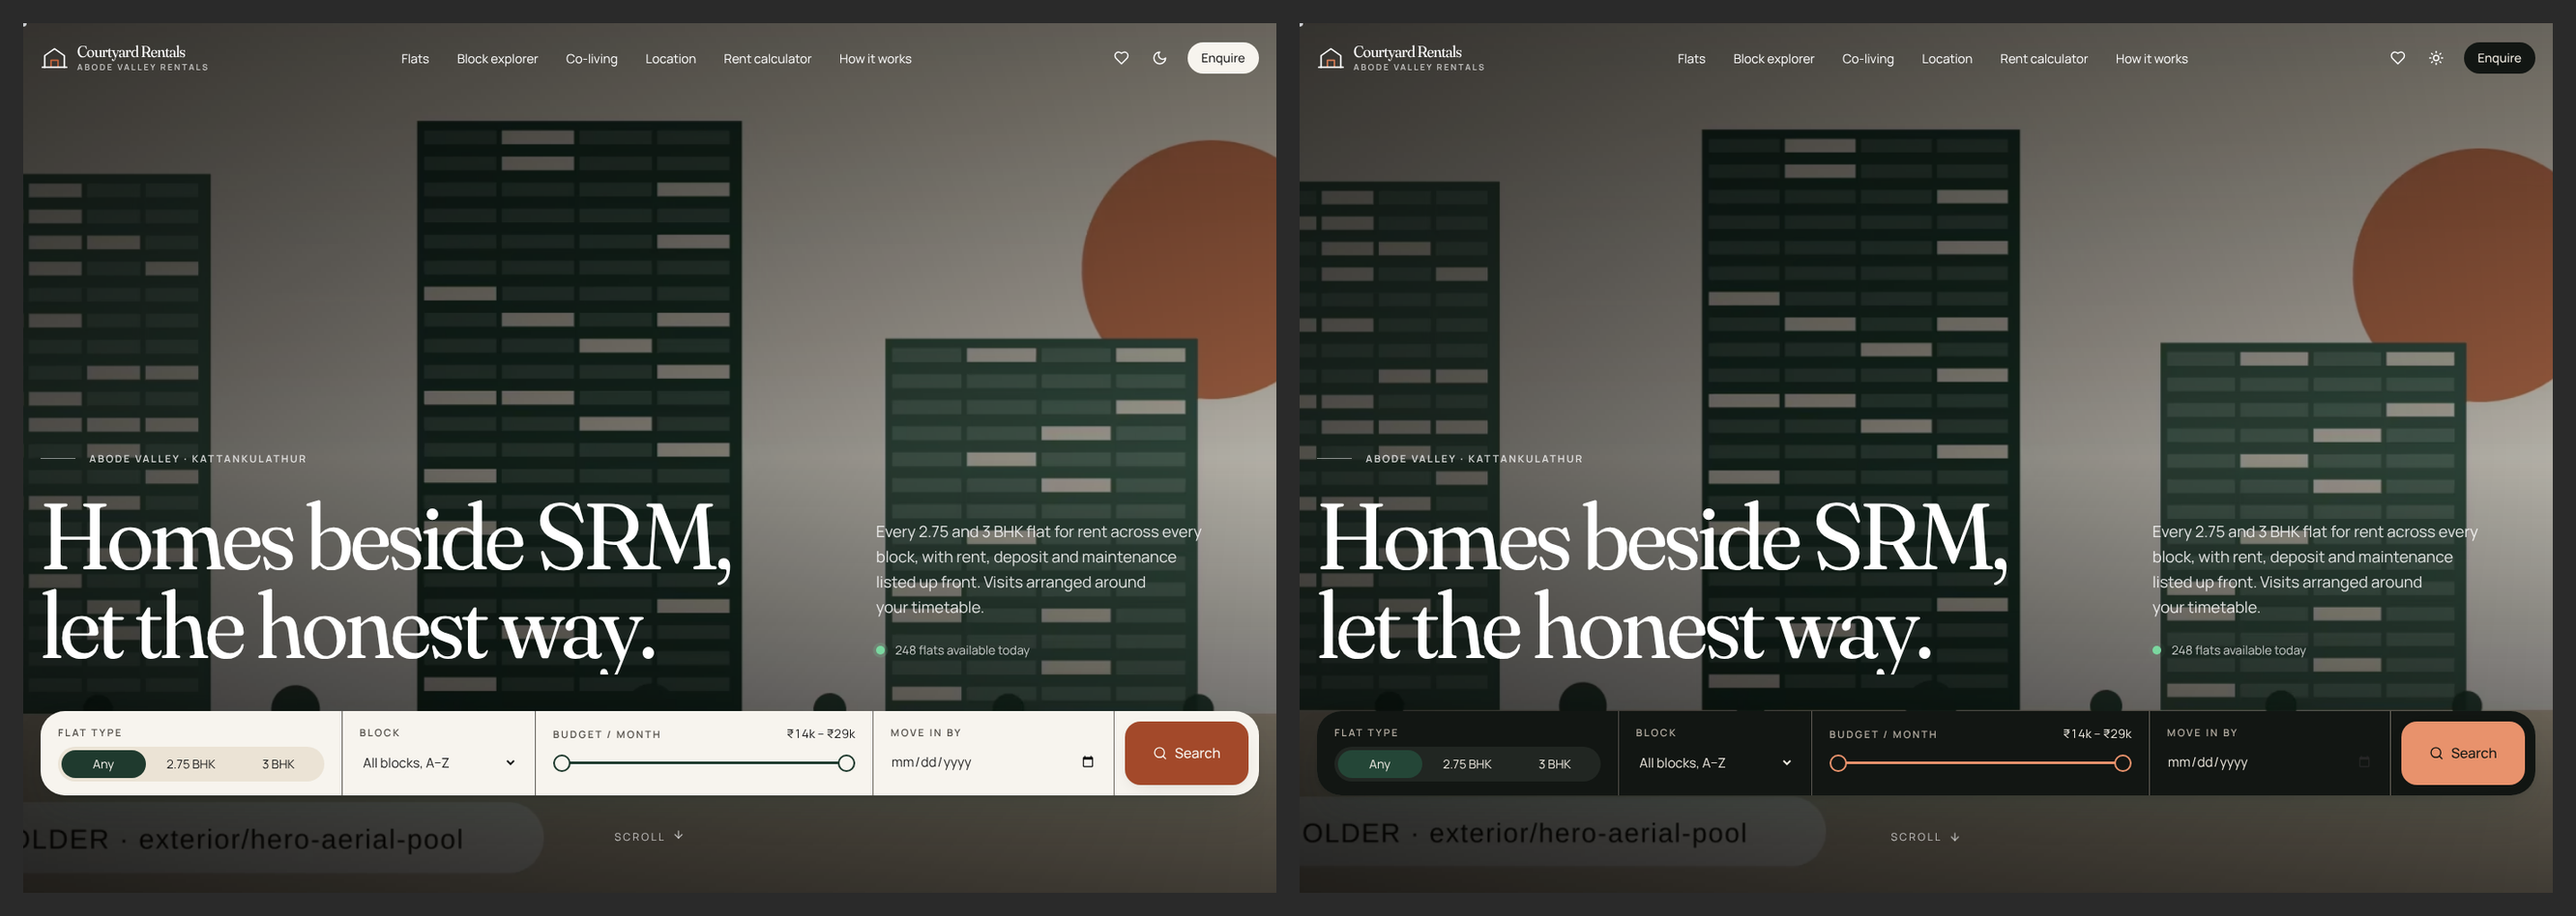
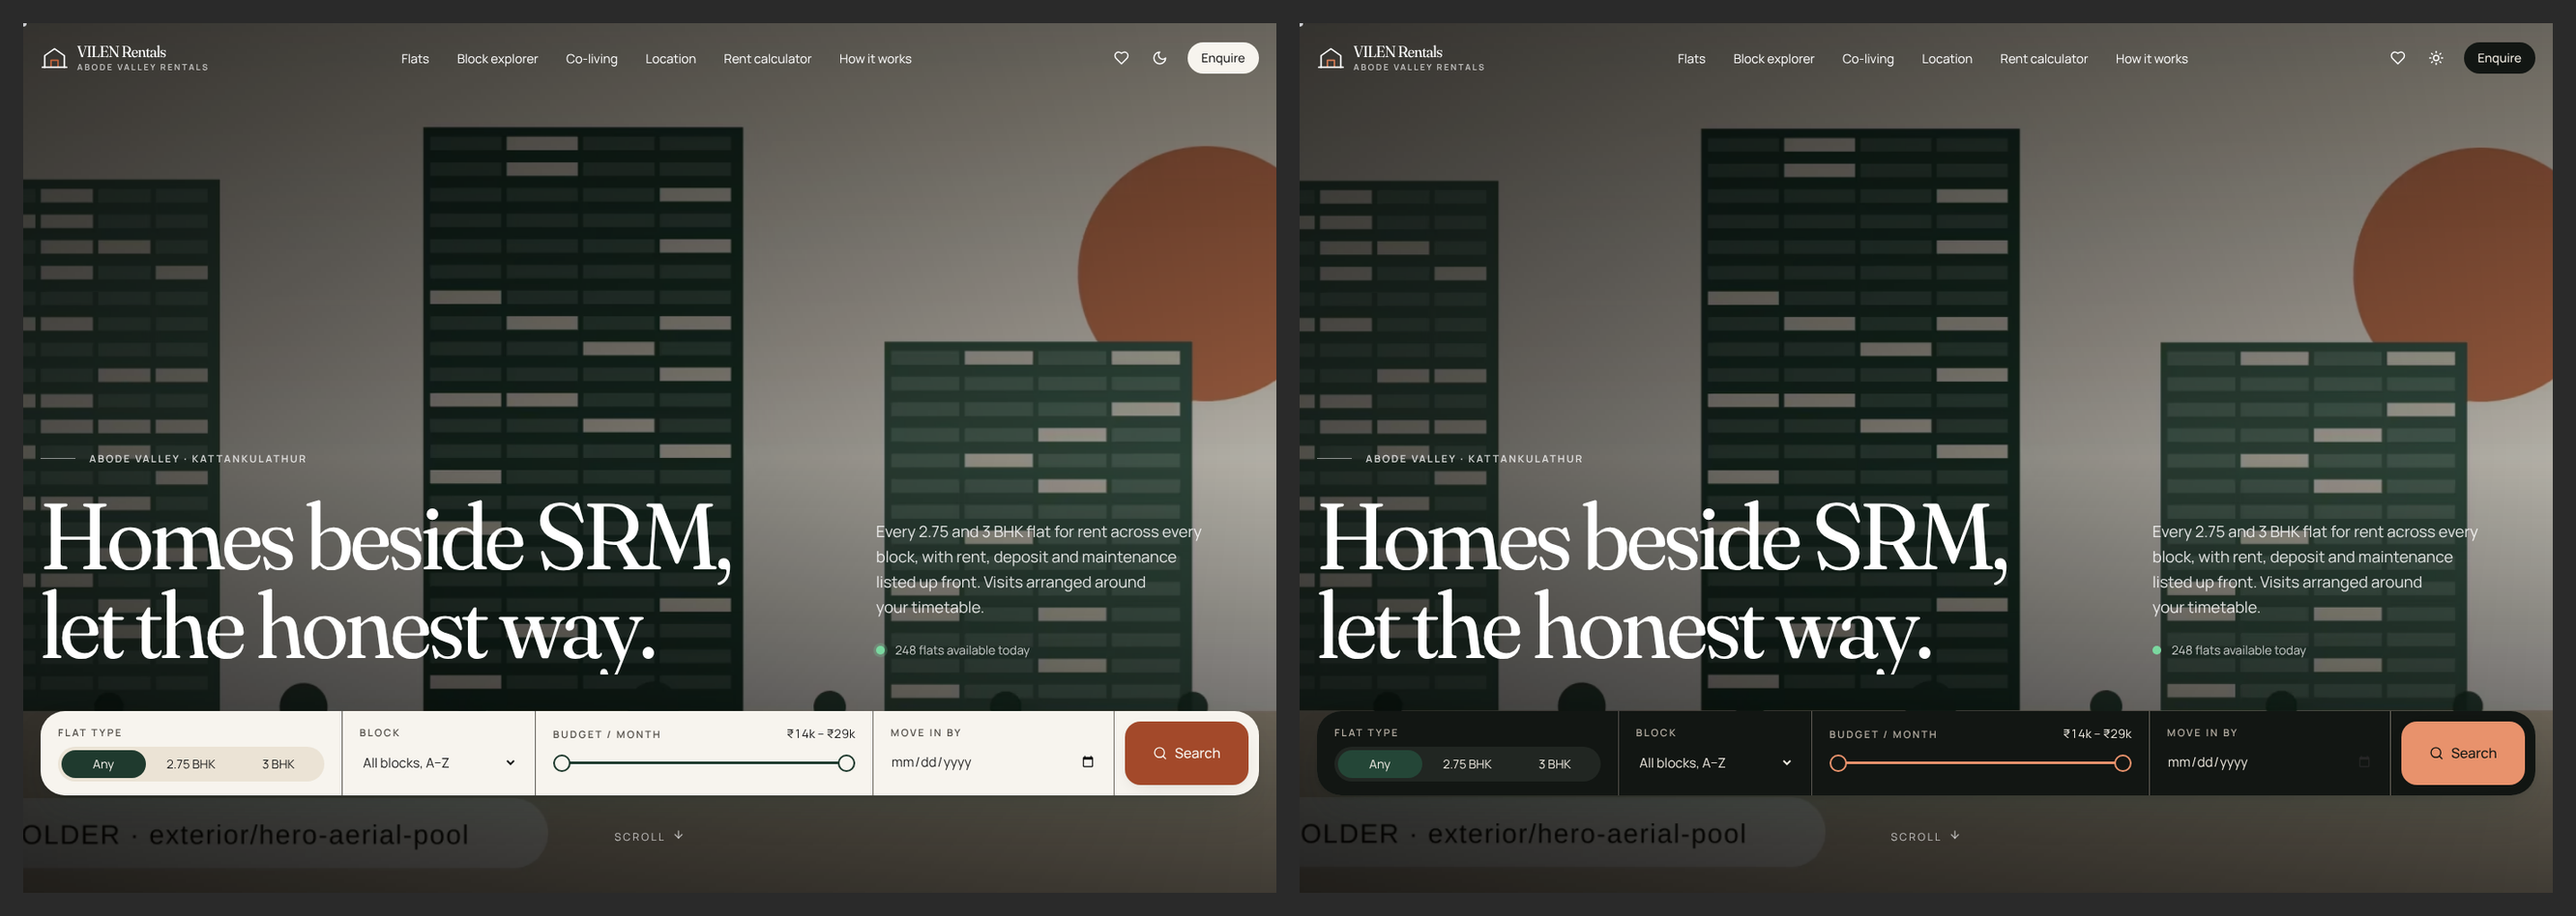
Rename brokerage to VILEN Rentals
Claude-Session: https://claude.ai/code/session_01EnTokC2RsE6pinmD8HsrEY

diff --git a/app/flats/[id]/opengraph-image.tsx b/app/flats/[id]/opengraph-image.tsx
@@ -1,4 +1,5 @@
 import { ImageResponse } from "next/og";
+import { getSiteConfig } from "@/lib/site";
 import { getFlat } from "@/lib/inventory";
 import { formatINR, ordinal, typeLabel } from "@/lib/utils";
 
@@ -8,7 +9,7 @@ export const alt = "Flat for rent at Abode Valley";
 
 export default async function OG({ params }: { params: { id: string } }) {
   const flat = await getFlat(params.id);
-  const name = process.env.NEXT_PUBLIC_BROKERAGE_NAME || "Abode Valley Rentals";
+  const { name } = getSiteConfig();
   return new ImageResponse(
     (
       <div style={{ width: "100%", height: "100%", display: "flex", flexDirection: "column", justifyContent: "space-between", padding: 72, background: "#1F3A2E", color: "#F7F4EE", fontFamily: "serif" }}>

diff --git a/app/opengraph-image.tsx b/app/opengraph-image.tsx
@@ -1,11 +1,12 @@
 import { ImageResponse } from "next/og";
+import { getSiteConfig } from "@/lib/site";
 
 export const size = { width: 1200, height: 630 };
 export const contentType = "image/png";
 export const alt = "Flats for rent at Abode Valley, Kattankulathur";
 
 export default function OG() {
-  const name = process.env.NEXT_PUBLIC_BROKERAGE_NAME || "Abode Valley Rentals";
+  const { name } = getSiteConfig();
   return new ImageResponse(
     (
       <div style={{ width: "100%", height: "100%", display: "flex", flexDirection: "column", justifyContent: "space-between", padding: 72, background: "#F7F4EE", color: "#1C1C1C", fontFamily: "serif" }}>

diff --git a/lib/site.ts b/lib/site.ts
@@ -22,7 +22,7 @@ export function getSiteConfig(): SiteConfig {
   const lead = brokers.find((b) => b.primary) ?? brokers[0];
   const phone = (process.env.PHONE || lead?.phone || "").replace(/\D/g, "");
   return {
-    name: process.env.NEXT_PUBLIC_BROKERAGE_NAME || "[YOUR BROKERAGE NAME]",
+    name: process.env.NEXT_PUBLIC_BROKERAGE_NAME || "VILEN Rentals",
     url: (process.env.NEXT_PUBLIC_SITE_URL || "http://localhost:3000").replace(/\/$/, ""),
     phone,
     phoneDisplay: displayPhone(phone),
